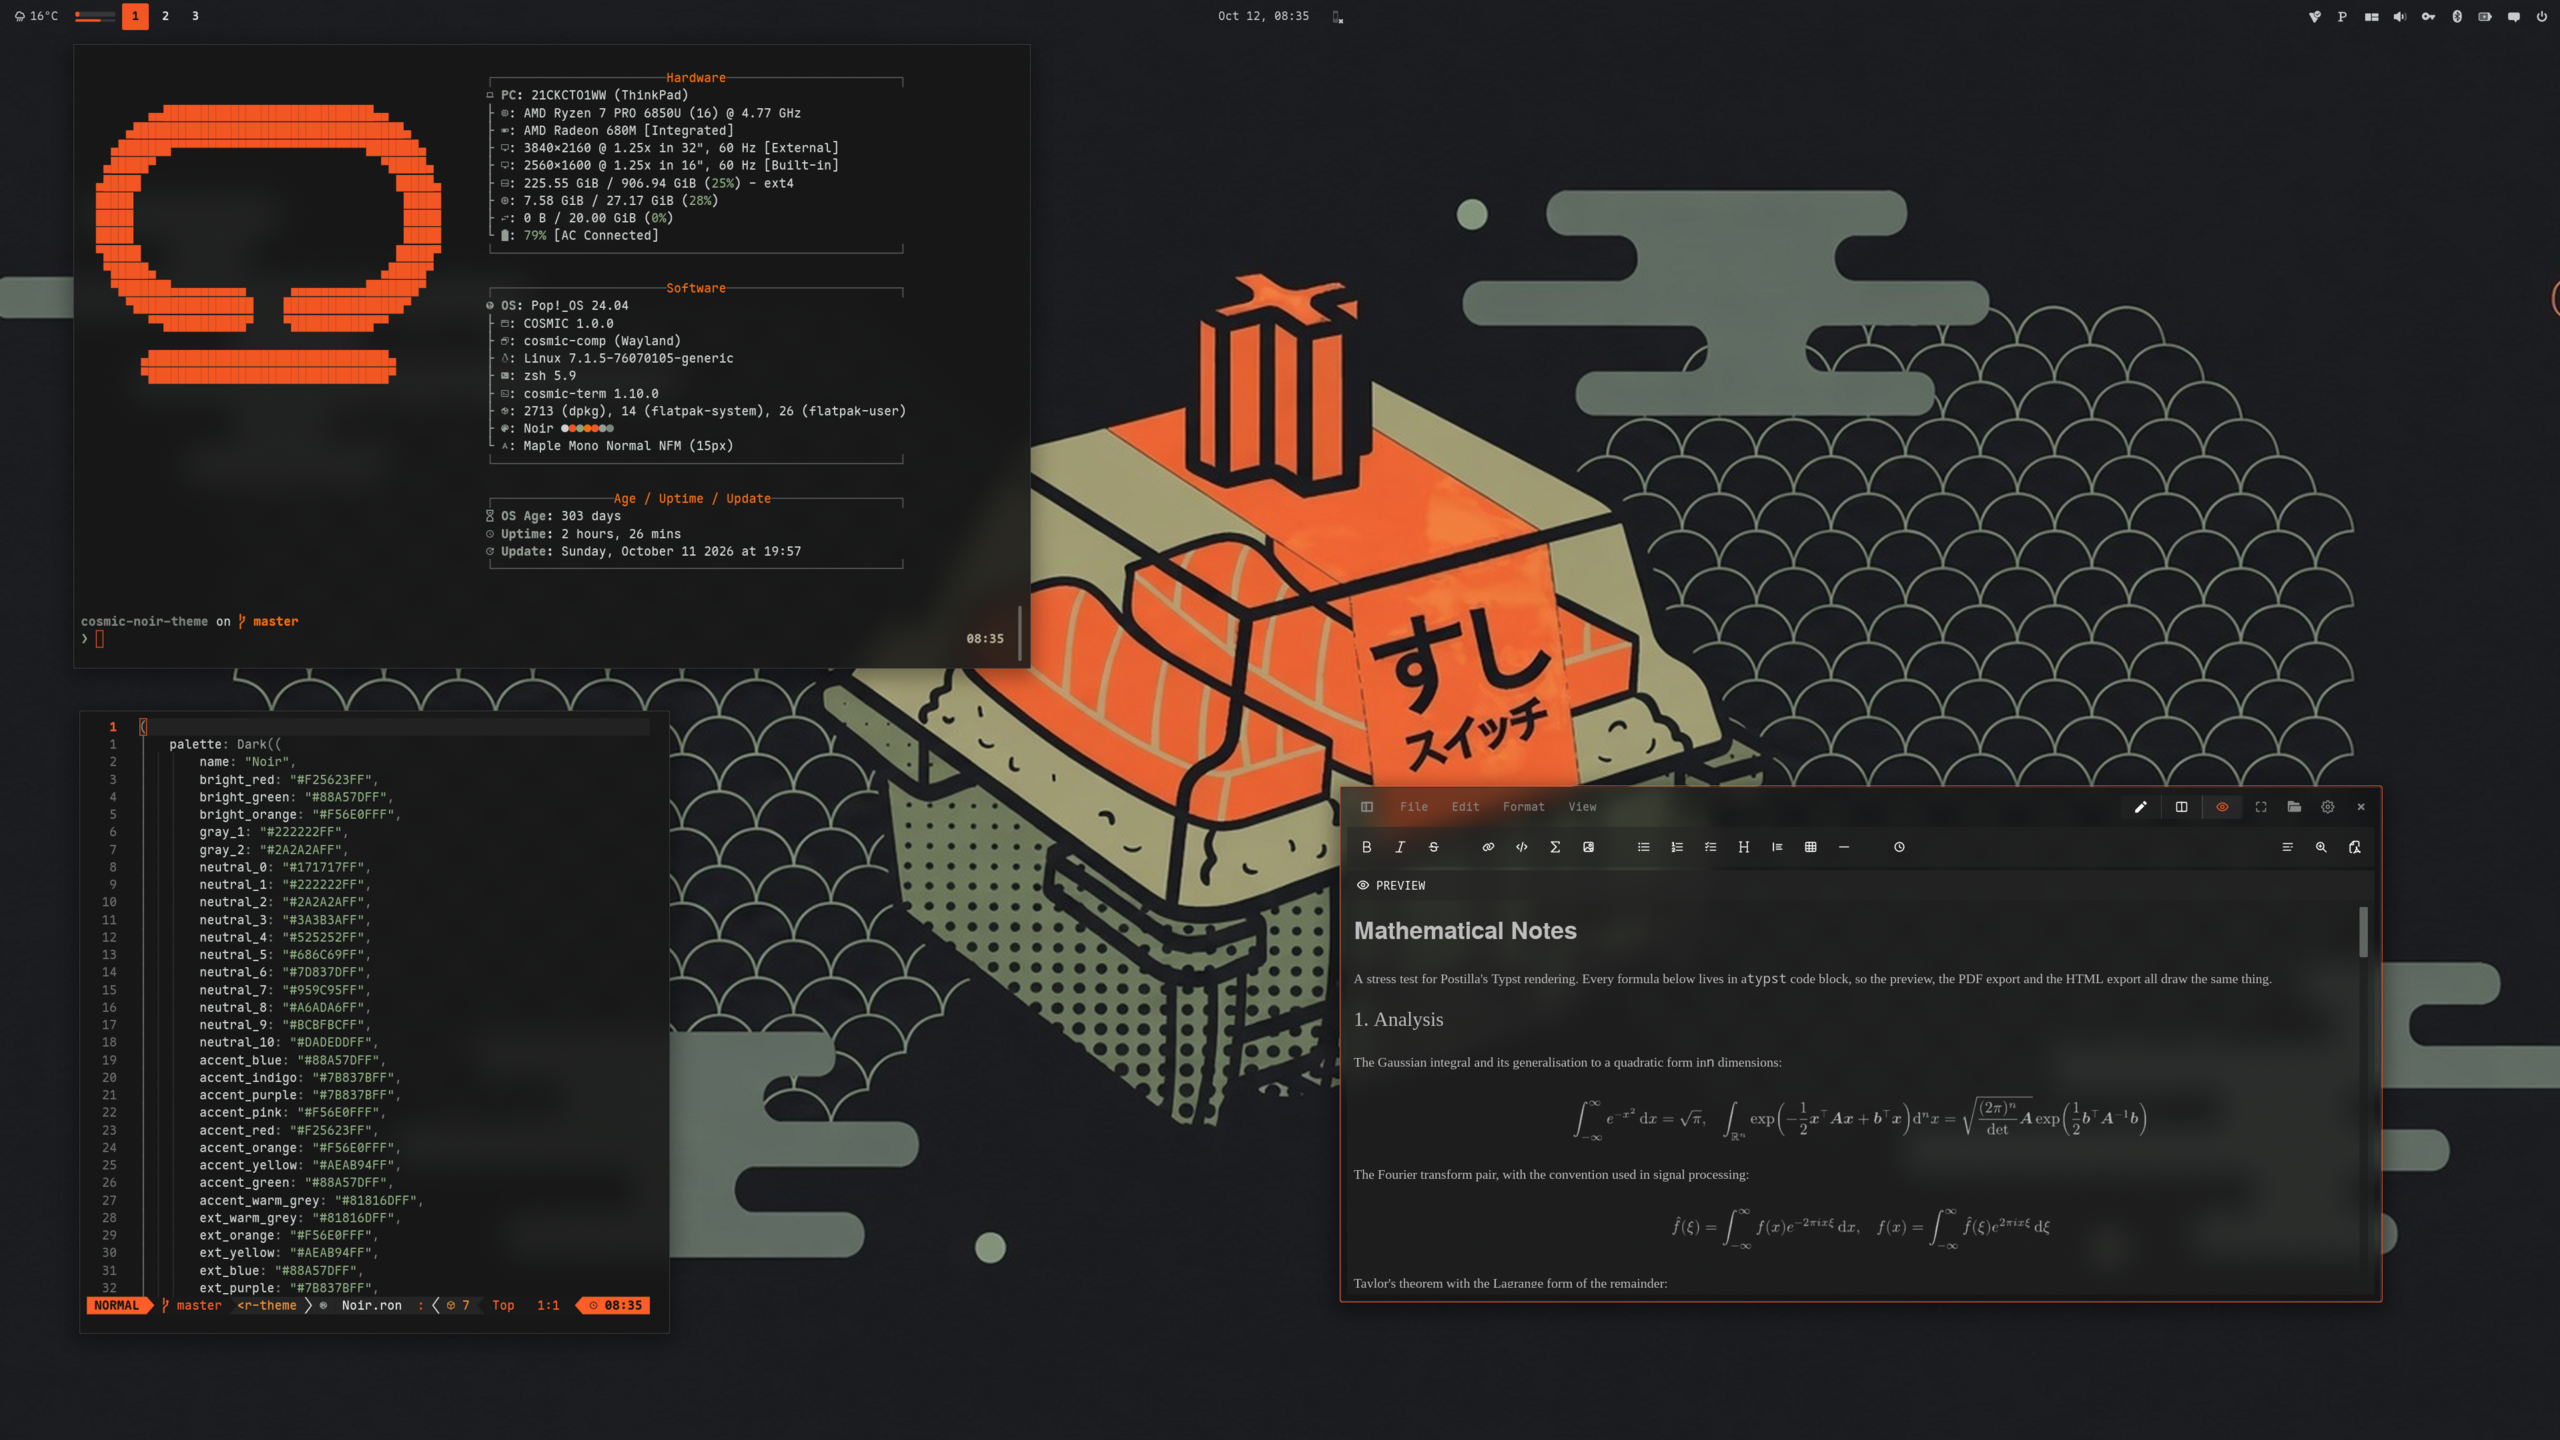
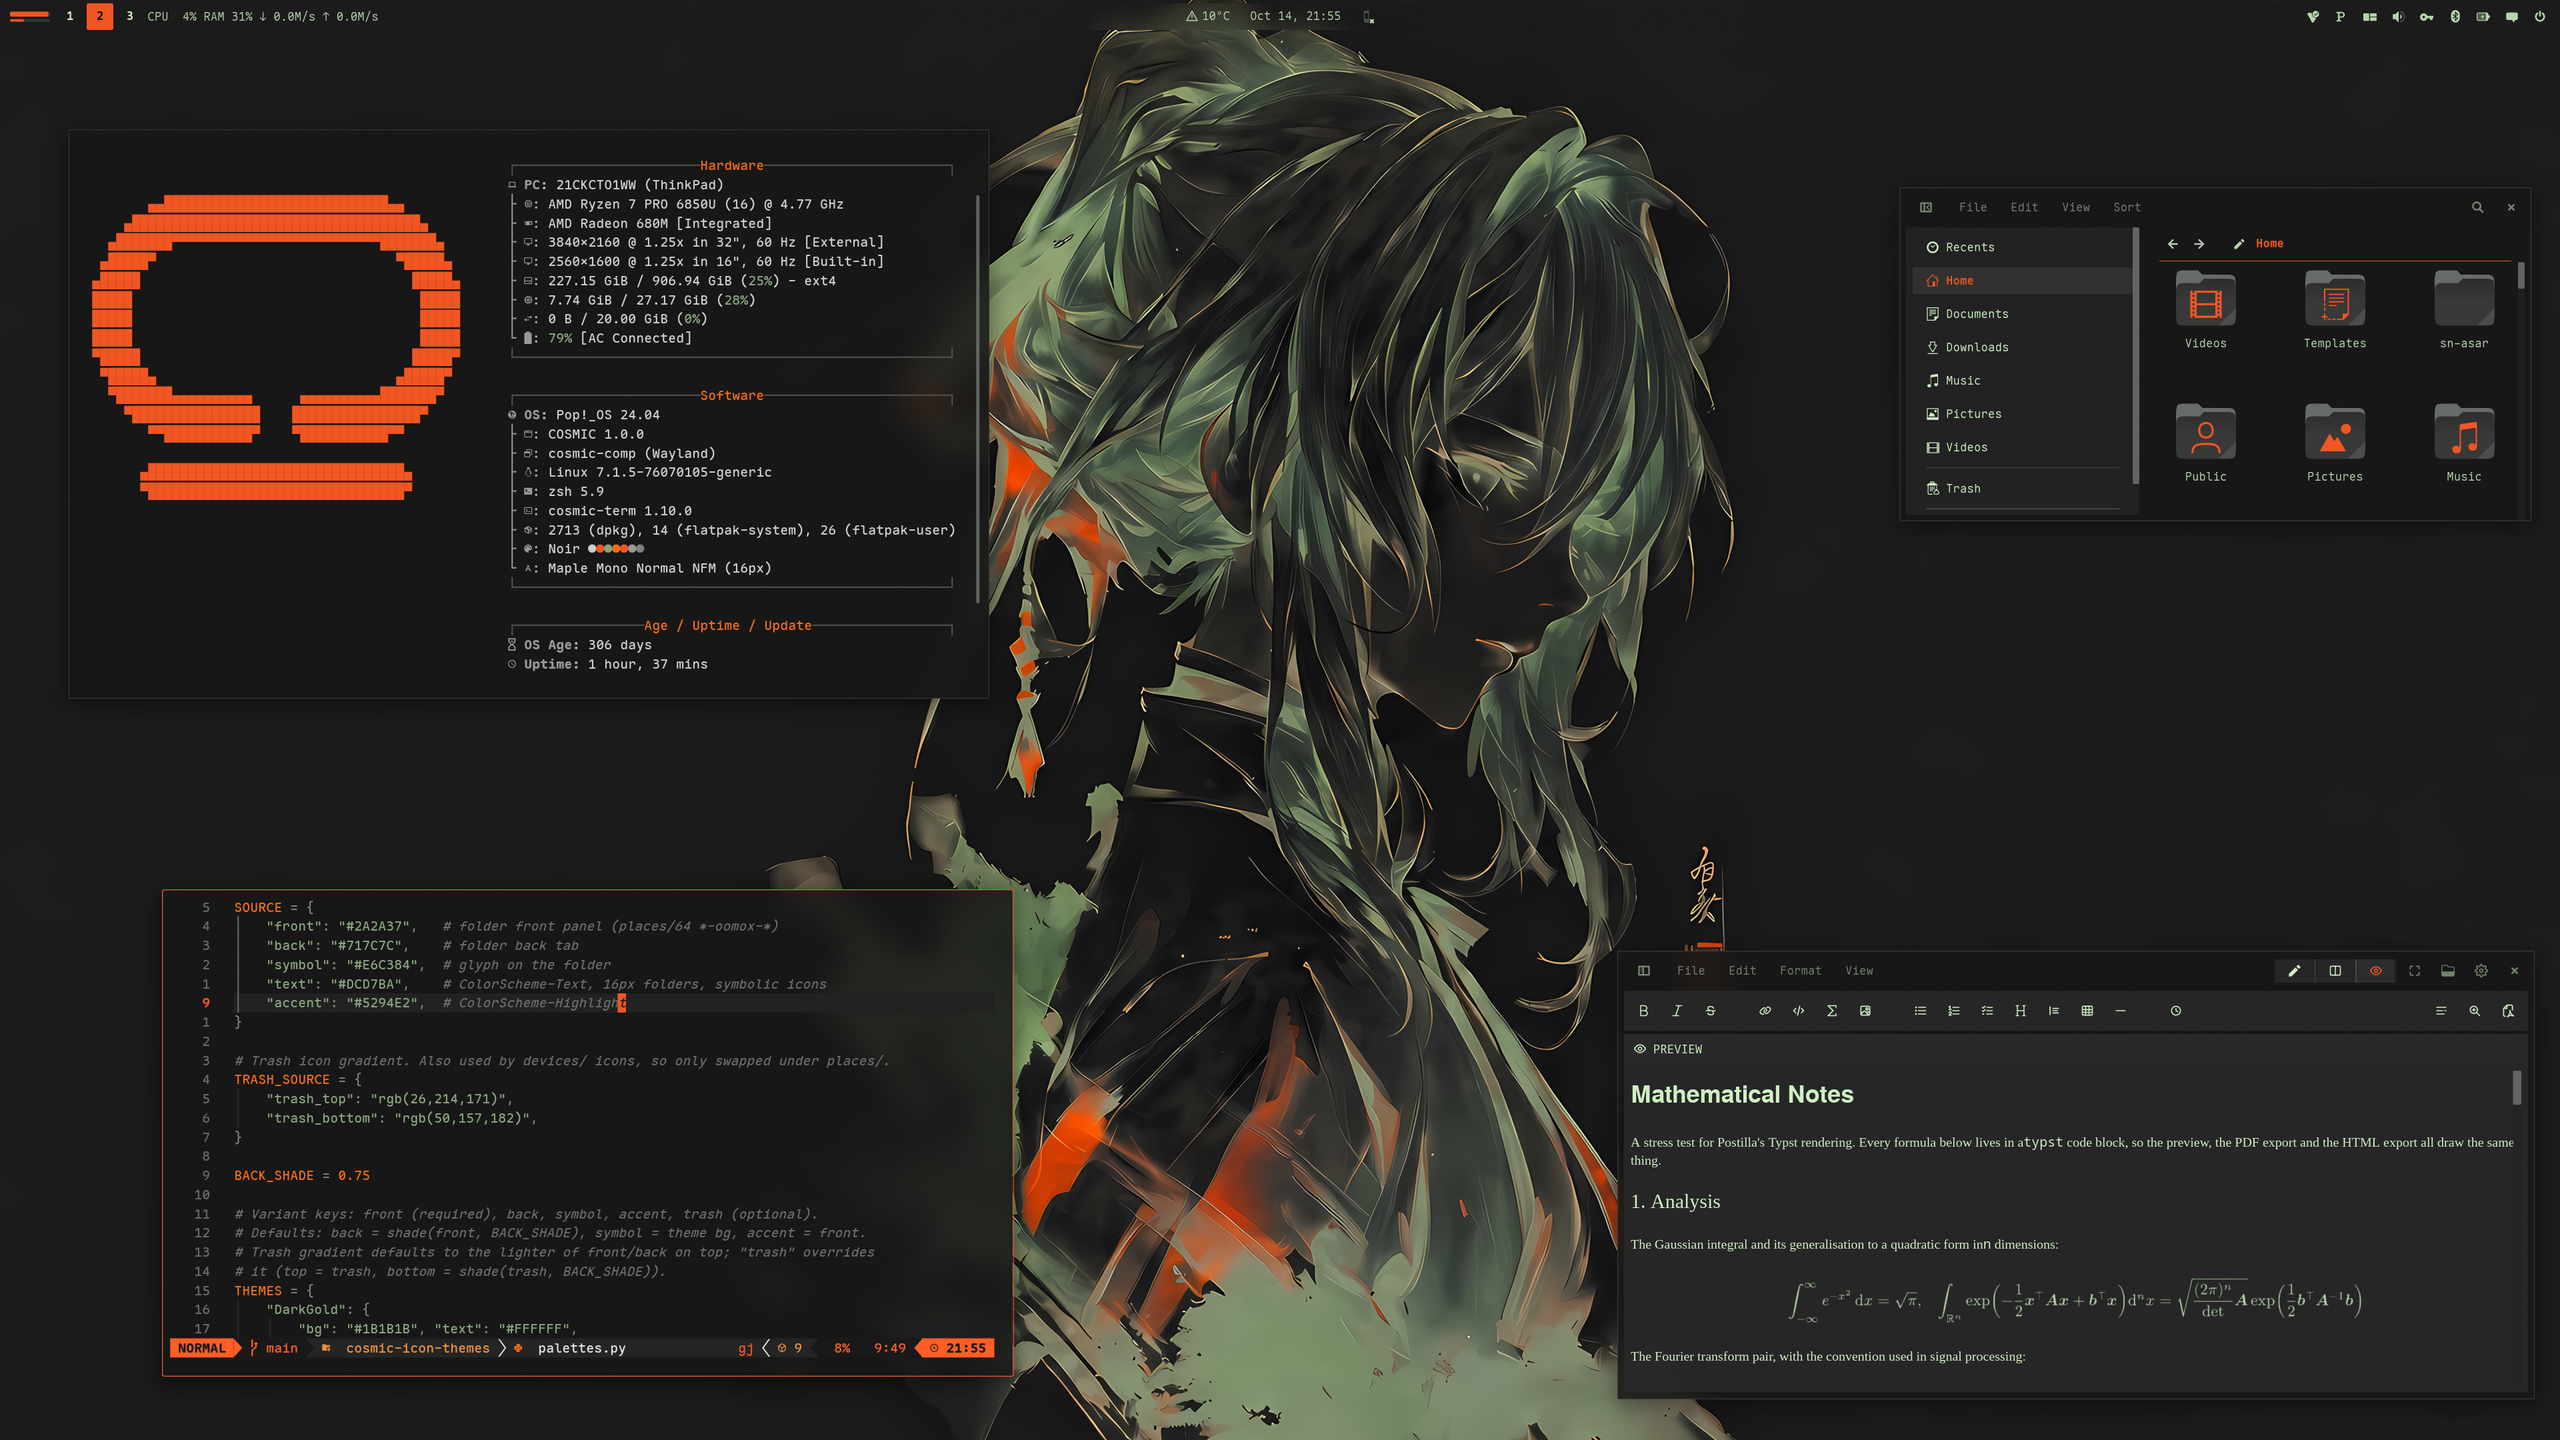
README: new screenshots on the anime portrait wallpaper

diff --git a/README.md b/README.md
@@ -95,7 +95,7 @@ is khaki. Errors are told apart by bold and underline.
 │   ├── cursors/                 # cursor preview
 │   ├── cosmic-term/             # scheme previews for cosmic-term/README.md
 │   ├── screenshot.png           # README screenshot
-│   └── wallpaper.png            # the sushi switch on the bare desktop
+│   └── wallpaper.png            # the anime portrait on the bare desktop
 ├── backgrounds/                 # wallpapers, noir-<subject>.png (see Icons and wallpaper)
 ├── docs
 │   └── showcase.md              # the rice describing itself, for the Postilla pane of the screenshot
@@ -326,7 +326,7 @@ the thirteen subjects every dark rice has, rendered in sage and orange on charco
 the Harbor Dark reaper and Hyundai blueprint, the COSMIC astronaut, the samurai,
 sushi switch, geisha, JS mug and neon street from the Tokyo Night set, The Greek
 eagle and ink portrait, and three new scenes: city, panel and tower.
-The sushi switch is the one in the screenshot.
+The anime portrait (`noir-anime.png`) is the one in the screenshot.
 The subjects come from [HANCORE-linux](https://github.com/HANCORE-linux) (MIT) and
 [cool-wallpapers](https://github.com/atraxsrc/cool-wallpapers); each was rendered again in this palette, then upscaled.
 More from the upstream theme in cool-wallpapers, folder
@@ -334,7 +334,7 @@ More from the upstream theme in cool-wallpapers, folder
 
 Settings → Wallpaper → Add image → a file from `backgrounds/`, or one you downloaded.
 
-![The sushi switch wallpaper on the Noir desktop, panel only](assets/wallpaper.png)
+![The anime portrait wallpaper on the Noir desktop, panel only](assets/wallpaper.png)
 
 ---
 

diff --git a/docs/showcase.md b/docs/showcase.md
@@ -42,7 +42,7 @@ flowchart LR
 - [x] `./icons/install.sh` for the **Cosmic-Noir** icons, `./cosmic/install.sh` for fonts and the terminal look
 - [x] `./zsh/install.sh`, `./lsd/install.sh`, `./fastfetch/install.sh`
 - [x] Cursor: Oxygen-Noir-Orange
-- [x] Wallpaper: `backgrounds/noir-sushi-switch.png`
+- [x] Wallpaper: `backgrounds/noir-anime.png`
 - [x] Screenshot for the README
 
 ## The baseline every rice shares
